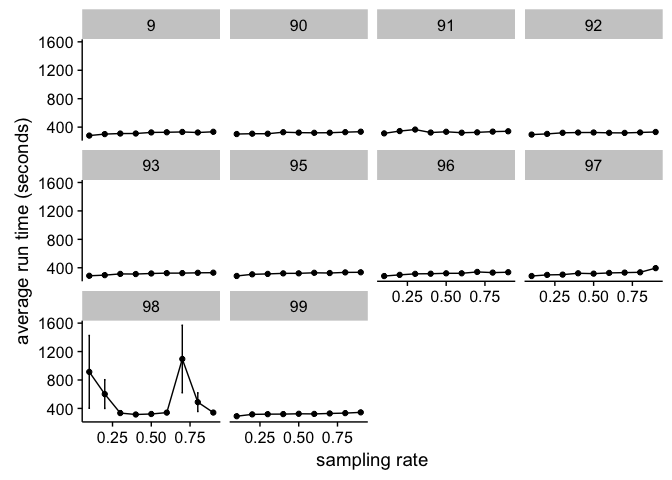
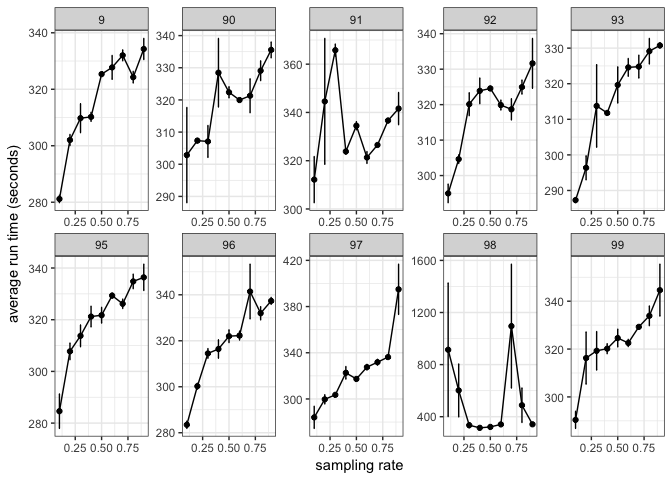
Fix figures for thesis
- Use 2 x 5 facet_wrap
- Use white background

Changed region(s): [[0.0, 0.0, 1.0, 1.0], [0.5938, 0.125, 0.6562, 0.1562], [0.4062, 0.7188, 0.4688, 0.75]]

diff --git a/Graph_Sparsification/Result/tf_sampling/matrix_sampling.md b/Graph_Sparsification/Result/tf_sampling/matrix_sampling.md
@@ -14,7 +14,6 @@ Setting up the required packages and import the data
 
 ```r
 library(ggplot2)
-library(cowplot)
 library(plyr) # note to self: load this before dplyr always. 
 library(dplyr)
 library(magrittr)
@@ -83,10 +82,10 @@ tf_summary <- all[all$type=="tf", ] %>% dplyr::group_by(id, rate, nsv) %>% dplyr
 Excluding id 93 to make the facet-wrap 3 by 3. Don't worry, it's not an outlier. 
 
 ```r
-tf_summary <- tf_summary[tf_summary$id != "93",]
-tfidf_summary <- tfidf_summary[tfidf_summary$id != "93",]
+#tf_summary <- tf_summary[tf_summary$id != "93",]
+#tfidf_summary <- tfidf_summary[tfidf_summary$id != "93",]
 # Plot the one for tf 
-ggplot(tf_summary, aes(x = rate, y = cov, colour = nsv, group = nsv)) + geom_point() + geom_line() + facet_wrap(~id) + ylab("coverage") + xlab("sampling rate")
+ggplot(tf_summary, aes(x = rate, y = cov, colour = nsv, group = nsv)) + geom_point() + geom_line() + facet_wrap(~id, nrow=2, scales="fixed", shrink=FALSE) + ylab("coverage") + xlab("sampling rate") + theme_bw()
 ```
 
 ![](matrix_sampling_files/figure-html/tf_coverage-1.png)<!-- -->
@@ -96,7 +95,7 @@ From this plot we can see that lower sampling rate result in smaller coverage, w
 
 ```r
 # Plot tfidf 
-ggplot(tfidf_summary, aes(x = rate, y = cov, colour = nsv, group = nsv)) + geom_point() + geom_line() + facet_wrap(~id) + ylab("coverage") + xlab("sampling rate")
+ggplot(tfidf_summary, aes(x = rate, y = cov, colour = nsv, group = nsv)) + geom_point() + geom_line() + facet_wrap(~id, nrow=2) + ylab("coverage") + xlab("sampling rate")  + theme_bw()
 ```
 
 ![](matrix_sampling_files/figure-html/tf_tfidf_coverage-1.png)<!-- -->
@@ -121,7 +120,7 @@ svals_tf <- svals_tf %>% tidyr::separate(matrix_name, c("id", "sampled", "type")
 svals_tf$rate <- factor(svals_tf$rate)
 
 # Graph
-ggplot(svals_tf, aes(x=rank, y=error_estimate_mean, colour=rate)) + geom_point(alpha=0.5, size=0.5) + facet_wrap(~id) + scale_color_brewer(palette="Spectral") + theme(axis.text.x = element_text(size = 9))  + ylab("means of error estimates")
+ggplot(svals_tf, aes(x=rank, y=error_estimate_mean, colour=rate)) + geom_point(alpha=0.5, size=0.5) + facet_wrap(~id, nrow=2, scale="free") + scale_color_brewer(palette="Spectral") + theme(axis.text.x = element_text(size = 9))  + ylab("means of error estimates") + theme_bw() + scale_x_continuous(breaks = seq(0, 1000, 500))
 ```
 
 ![](matrix_sampling_files/figure-html/erorr_estimate-1.png)<!-- -->
@@ -138,7 +137,7 @@ A look at the singular values
 
 
 ```r
-ggplot(svals_tf, aes(x=rank, y=singular_value_mean, colour=rate)) + geom_point(alpha=0.5, size=0.5) + facet_wrap(~id) + scale_color_brewer(palette="Spectral") + ylab("singular value") + theme(axis.text.x = element_text(size = 9))  
+ggplot(svals_tf, aes(x=rank, y=singular_value_mean, colour=rate)) + geom_point(alpha=0.5, size=0.5) + facet_wrap(~id, nrow=2) + scale_color_brewer(palette="Spectral") + ylab("singular value") + theme(axis.text.x = element_text(size = 9)) + theme_bw()
 ```
 
 ![](matrix_sampling_files/figure-html/mean_svals-1.png)<!-- -->
@@ -179,7 +178,7 @@ Graph result
 
 
 ```r
-ggplot(run_time_summary, aes(x = sample_rate, y = mean)) + geom_point() + geom_line() + geom_errorbar(aes(ymax = mean + de, ymin=mean - de), width=0.01) +  facet_wrap(~matrix_name) + ylab("average run time (seconds)") + xlab("sampling rate")
+ggplot(run_time_summary, aes(x = sample_rate, y = mean)) + geom_point() + geom_line() + geom_errorbar(aes(ymax = mean + de, ymin=mean - de), width=0.01) +  facet_wrap(~matrix_name, nrow=2, scale="free") + ylab("average run time (seconds)") + xlab("sampling rate") + theme_bw()
 ```
 
 ![](matrix_sampling_files/figure-html/runningtime_tfidf_summary-1.png)<!-- -->
@@ -187,7 +186,7 @@ ggplot(run_time_summary, aes(x = sample_rate, y = mean)) + geom_point() + geom_l
 Make 3 by 3 
 
 ```r
-ggplot(run_time_summary[run_time_summary$matrix_name!="98", ], aes(x = sample_rate, y = mean)) + geom_point() + geom_line() + geom_errorbar(aes(ymax = mean + de, ymin=mean - de), width=0.01) +  facet_wrap(~matrix_name) + ylab("average run time (seconds)") + xlab("sampling rate")
+ggplot(run_time_summary[run_time_summary$matrix_name!="98", ], aes(x = sample_rate, y = mean)) + geom_point() + geom_line() + geom_errorbar(aes(ymax = mean + de, ymin=mean - de), width=0.01) +  facet_wrap(~matrix_name, ncol=2) + ylab("average run time (seconds)") + xlab("sampling rate")
 ```
 
 ![](matrix_sampling_files/figure-html/runningtime_tfidf_3by3-1.png)<!-- -->
@@ -236,7 +235,7 @@ Graph result
 
 
 ```r
-ggplot(sparsity_summary, aes(x = sample_rate, y = mean)) + geom_point() + geom_line() + geom_errorbar(aes(ymax = mean + de, ymin=mean - de), width=0.01) +  facet_wrap(~matrix_name) + ylab("average sparsity") + xlab("sampling rate")
+ggplot(sparsity_summary, aes(x = sample_rate, y = mean)) + geom_point() + geom_line() + geom_errorbar(aes(ymax = mean + de, ymin=mean - de), width=0.01) +  facet_wrap(~matrix_name, nrow=2) + ylab("average sparsity") + xlab("sampling rate") + theme_bw()
 ```
 
 ![](matrix_sampling_files/figure-html/sparsity_tfidf_summary-1.png)<!-- -->
